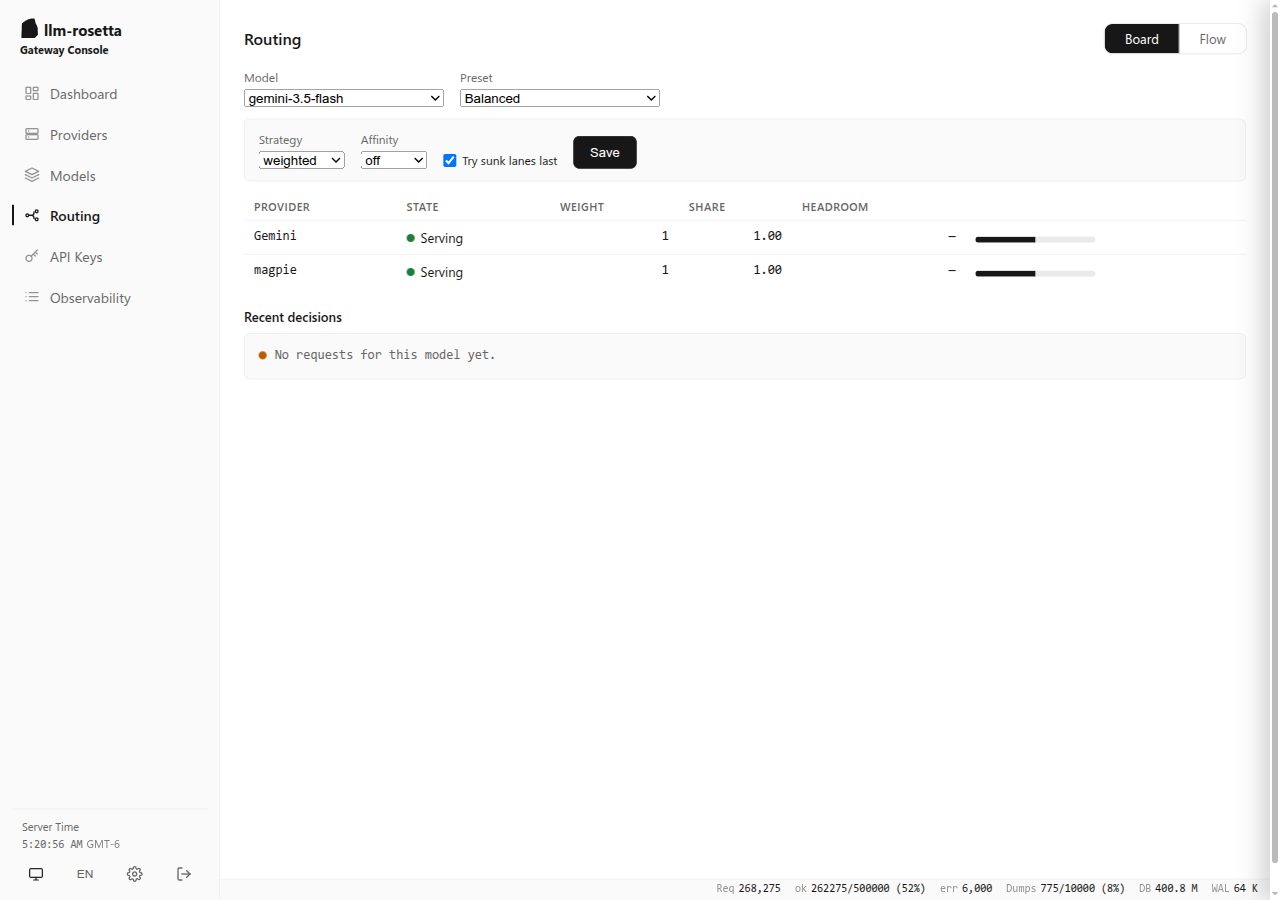
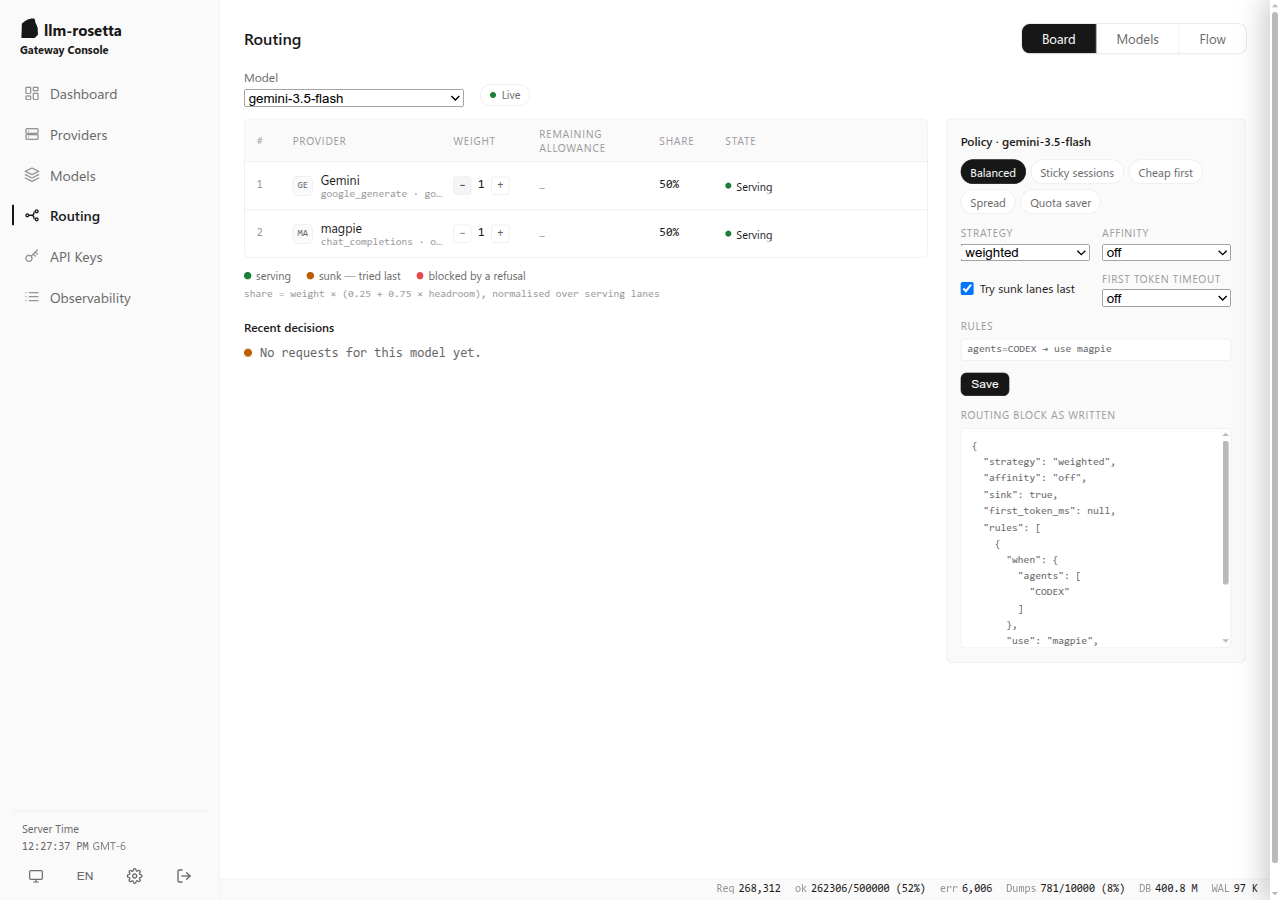
docs(admin): the Routing board, its decision stream and the policy card

diff --git a/docs/gateway/admin-panel.md b/docs/gateway/admin-panel.md
@@ -116,10 +116,12 @@ The **Routing** section answers one question per model: which lane serves it, an
 
 ![Routing section](images/admin-routing.png)
 
-- **Board** — one row per candidate: its state, configured weight, the share it serves at (weight scaled by remaining allowance) and its headroom, with a bar showing each lane's proportion of the model's traffic.
-- **Flow** — the same candidates as lanes, for a quick read of how many lanes a model has and which are out.
-- **Recent decisions** — the last requests for this model from the request log: time, provider, status and any failover hop.
-- **Policy** — the model's `routing` block, editable: strategy, affinity and the sunk-lane switch, plus five presets (**Balanced**, **Sticky sessions**, **Cheap first**, **Spread**, **Quota saver**). A preset writes the literal block an operator could have typed, and the select shows **Custom** for a block that is no preset.
+- **Board** — the route in the order the selector reads it: each candidate's position, the lane and the wire format and shim behind it, a weight stepper that writes the model entry, the remaining allowance, the share it serves at, and the state with its countdown.
+- **Legend** — names the three dots (**serving**, **sunk**, **blocked by a refusal**) and the share formula: weight × (0.25 + 0.75 × headroom), normalised over the serving lanes.
+- **Decisions** — the last requests for this model from the request log: time, request id, client, chosen lane, any failover hop, status and latency.
+- **Policy** — the model's `routing` block in a card beside the board: five presets as chips (**Balanced**, **Sticky sessions**, **Cheap first**, **Spread**, **Quota saver**), strategy and affinity, the sunk-lane switch, the first-token timeout, the rules as written, and the block as JSON. A preset writes the literal block an operator could have typed; a block that is no preset leaves every chip unpressed.
+- **Models** — a rail of the routable models beside the same policy and decision views, one model at a time.
+- **Flow** — the same candidates as read-only lanes, for a quick read of how many lanes a model has and which are out.
 
 States follow the eligibility predicate, so the panel and the proxy agree by construction:
 
